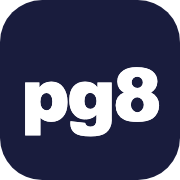
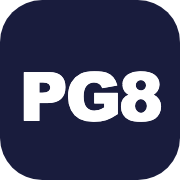
Write PG8 in capitals

Changed region(s): [[0.1111, 0.3611, 0.8611, 0.7778], [0.8333, 0.4167, 0.9167, 0.6667], [0.8056, 0.6667, 0.8333, 0.6944]]

diff --git a/index.html b/index.html
@@ -5,12 +5,12 @@
 <meta name="viewport" content="width=device-width, initial-scale=1, viewport-fit=cover">
 <meta name="color-scheme" content="light dark">
 <meta name="theme-color" content="#f4f5fa">
-<title>pg8</title>
-<!-- ?v=3 zwingt Browser, das neue Tab-Symbol zu laden (Favicons werden sehr hartnaeckig zwischengespeichert). -->
-<link rel="icon" href="/favicon.svg?v=3" type="image/svg+xml" sizes="any">
-<link rel="icon" href="/favicon-32.png?v=3" type="image/png" sizes="32x32">
-<link rel="icon" href="/favicon-192.png?v=3" type="image/png" sizes="192x192">
-<link rel="apple-touch-icon" href="/apple-touch-icon.png?v=3">
+<title>PG8</title>
+<!-- ?v=4 zwingt Browser, das neue Tab-Symbol zu laden (Favicons werden sehr hartnaeckig zwischengespeichert). -->
+<link rel="icon" href="/favicon.svg?v=4" type="image/svg+xml" sizes="any">
+<link rel="icon" href="/favicon-32.png?v=4" type="image/png" sizes="32x32">
+<link rel="icon" href="/favicon-192.png?v=4" type="image/png" sizes="192x192">
+<link rel="apple-touch-icon" href="/apple-touch-icon.png?v=4">
 <link rel="stylesheet" href="/src/style.css">
 </head>
 <body>
@@ -25,7 +25,7 @@
 <!-- ---------- Fächer ---------- -->
 <main id="screen-home" class="screen home">
   <header class="masthead">
-    <p class="wordmark">pg8</p>
+    <p class="wordmark">PG8</p>
     <p id="masthead-note" class="masthead-note">Welches Fach übst du heute?</p>
     <div class="masthead-actions">
       <button id="btn-tests" class="account tests-btn">Tests<span id="tests-count" class="tests-count" hidden></span></button>

diff --git a/public/fx.js b/public/fx.js
@@ -2,7 +2,7 @@
 
 // Bewegung: nur Darstellung, keine Logik der Seite.
 //   - Knoepfe ruecken ein kleines Stueck zum Mauszeiger, wenn er in der Naehe ist
-//   - die Buchstaben von "pg8" heben sich wie eine Welle unter dem Zeiger
+//   - die Buchstaben von "PG8" heben sich wie eine Welle unter dem Zeiger
 //   - eine kleine Karte folgt dem Zeiger ueber Ordnern und Unit-Zeilen
 //   - die Quizkarte neigt sich leicht zum Zeiger
 // Alles laeuft in einer einzigen Animationsschleife, die schlaeft, wenn nichts mehr in Bewegung ist.

diff --git a/public/tests-ui.js b/public/tests-ui.js
@@ -371,7 +371,7 @@
     return box;
   }
 
-  // Neben "pg8" und auf jeder Fachseite.
+  // Neben "PG8" und auf jeder Fachseite.
   window.refreshTestHints = function refreshTestHints() {
     const note = $("masthead-note");
     if (note) {
